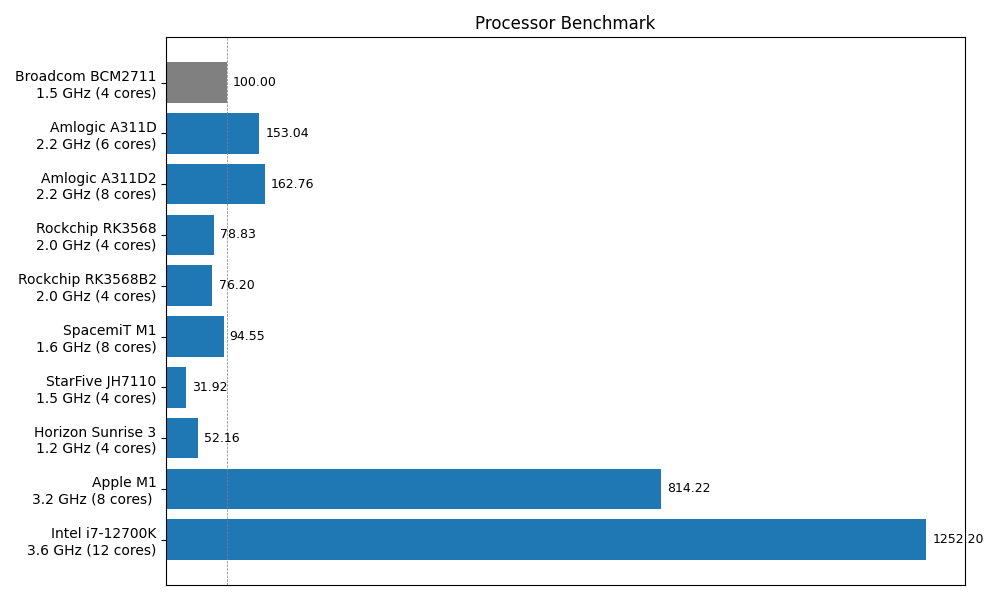
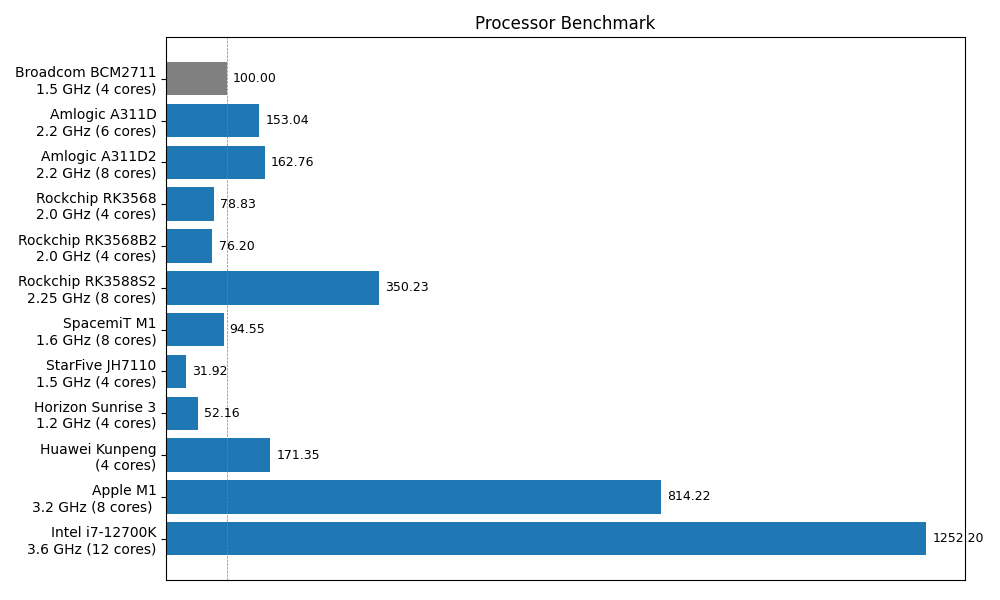
Add two more results

Changed region(s): [[0.0, 0.09, 0.992, 0.99]]

diff --git a/README.md b/README.md
@@ -19,14 +19,14 @@ The geometric mean of all test case scores within a test suite represents the sc
 
 After the benchmark completes, detailed scores are reported:
 
-| module     |  Amlogic A311D |  Amlogic A311D2 |  Apple M1 |Intel Core i7-12700K |  Rockchip RK3568 |  Rockchip RK3568B2 |  SpacemiT M1 |  StarFive JH7110 |  Horizon Sunrise 3 |
-|:-----------|---------------:|----------------:|----------:|-----------------:|-----------------:|-------------------:|-------------:|-----------------:|-------------------:|
-| calib3d    |         168.5  |          167.83 |    805.11 |          1047.36 |            92.17 |              89.21 |        86.56 |            35.38 |              57.12 |
-| core       |         157.2  |          157.9  |    964.48 |          1129.9  |            81.14 |              77.41 |       107.72 |            26.96 |              57.54 |
-| features2d |         148.54 |          187.02 |    823.6  |          1659.51 |            72.93 |              71.62 |       103.65 |            30.52 |              49.69 |
-| imgproc    |         151.89 |          160.65 |    865.98 |          1318.76 |            82.88 |              79.7  |       119.81 |            33.73 |              52.4  |
-| objdetect  |         140.49 |          143.46 |    646.15 |          1188.76 |            67.34 |              65.16 |        65.25 |            33.72 |              45.13 |
-| **Score**  |     **153.04** |      **162.76** |**814.22** |      **1252.2**  |        **78.83** |           **76.2** |    **94.55** |        **31.92** |           **52.16**|
+| module     |   Amlogic A311D |   Amlogic A311D2 |   Apple M1 |   Huawei Kunpeng |   Intel Core i7-12700K |   Rockchip RK3568 |   Rockchip RK3568B2 |   Rockchip RK3588S2 |   SpacemiT M1 |   StarFive JH7110 |   Sunrise 3 |
+|:-----------|----------------:|-----------------:|-----------:|-----------------:|-----------------------:|------------------:|--------------------:|--------------------:|--------------:|------------------:|------------:|
+| calib3d    |          168.5  |           167.83 |     805.11 |           180.74 |                1047.36 |             92.17 |               89.21 |              379.78 |         86.56 |             35.38 |       57.12 |
+| core       |          157.2  |           157.9  |     964.48 |           178.97 |                1129.9  |             81.14 |               77.41 |              368.45 |        107.72 |             26.96 |       57.54 |
+| features2d |          148.54 |           187.02 |     823.6  |           141.08 |                1659.51 |             72.93 |               71.62 |              328.12 |        103.65 |             30.52 |       49.69 |
+| imgproc    |          151.89 |           160.65 |     865.98 |           178.01 |                1318.76 |             82.88 |               79.7  |              337.92 |        119.81 |             33.73 |       52.4  |
+| objdetect  |          140.49 |           143.46 |     646.15 |           181.85 |                1188.76 |             67.34 |               65.16 |              339.64 |         65.25 |             33.72 |       45.13 |
+| **Score**  |      **153.04** |       **162.76** | **814.22** |       **171.35** |            **1252.2**  |         **78.83** |            **76.2** |          **350.23** |     **94.55** |      **31.92** |           **52.16**|
 
 *The baseline CPU is Broadcom BCM2711.*
 
@@ -35,9 +35,11 @@ CPU specs:
 - **Amlogic A311D**: quad-core ARM Cortex-A73 (2.2 GHz) and dual-core ARM Cortex-A53 (1.8 GHz). Corresponding SBC used is Khadas VIM3.
 - **Amlogic A311D2**: quad-core ARM Cortex-A73 (2.2 GHz) and quad-core ARM Cortex-A53 (2.0 GHz). Corresponding SBC used is Khadas VIM4.
 - **Apple M1**: 4 performance cores (up to 3.2 GHz) and 4 efficiency cores.
+- **Huawei KunPeng**: quad-core 64-bit Kunpeng CPU.
 - **Intel Core i7-12700K**: 8 Performance cores (3.60 GHz, turbo up to 4.90 GHz), 4 Efficient cores (2.70 GHz, turbo up to 3.80 GHz).
 - **Rockchip RK3568**: quad-core ARM Cortex-A55 (up to 2.0 GHz). Corresponding SBC used is Firefly ROC-RK3568-PC.
 - **Rockchip RK3568B2**: quad-core ARM Cortex-A55 (up to 2.0 GHz). Corresponding SBC used is ATK-DLRK3568.
+- **Rockchip RK3588S2**: quad-core ARM Cortex-A76 (2.25 GHz) and quad-core ARM Cortex-A55 (1.8 GHz). Corresponding SBC used is Khadas Edge2 ARM PC.
 - **SpacemiT M1**: octa-core 64-bit RISC-V AI CPU (clocked at 1.6 GHz). Corresponding SBC used is MUSE Pi V30.
 - **StarFive JH7110**: quad-core 64-bit RISC-V CPU (1.5 GHz). Corresponding SBC used is StarFive VisionFive 2.
 - **Horizon Sunrise 3**: quad-core ARM Cortex-A53 (1.2 GHz). Corresponding SBC used is Horizon Robotics X3_PI_V1.2.
